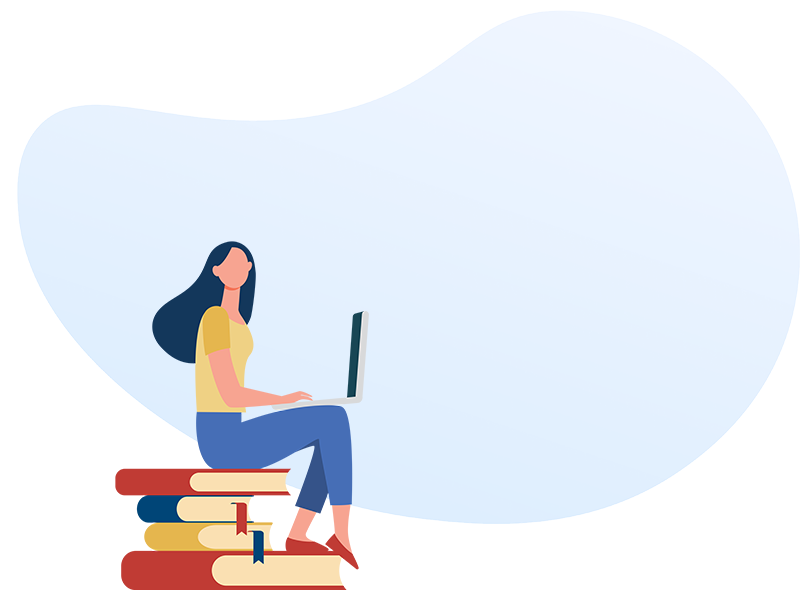
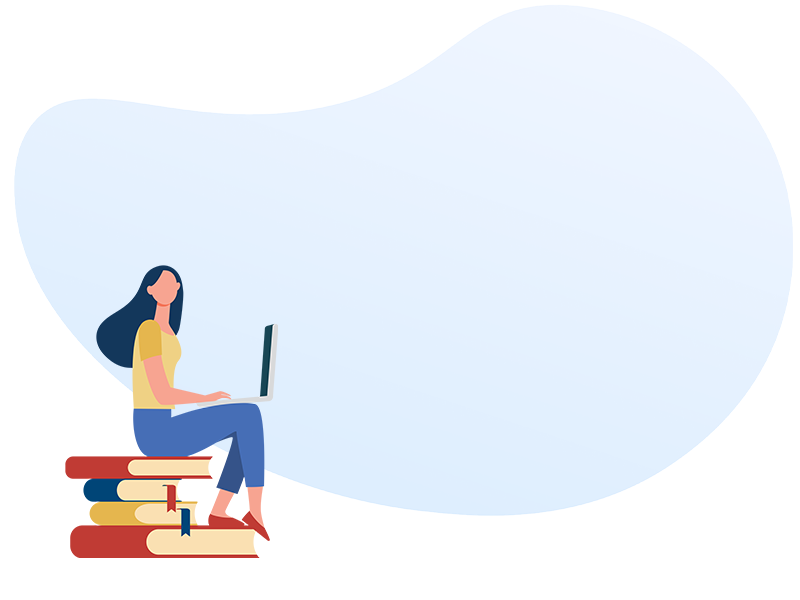
prueba

diff --git a/style.css b/style.css
@@ -96,7 +96,7 @@ body {
 
 /*home__li*/
 .activo { 
-	border-bottom: 4px solid rgba(0, 0, 0, 0.5);
+	border-bottom: 4px solid rgb(0, 68, 133);
 }
 
 /* footer */
@@ -146,7 +146,7 @@ body {
 .learn {
     height: 100%;
     display: grid; 
-    grid-template-columns: 0.5fr 0.8fr;
+    grid-template-columns: 0.4fr 1fr;
     grid-template-rows: 0.5fr 1fr;
     justify-content: center;
     align-items: center;
@@ -157,6 +157,7 @@ body {
     grid-column-start: 1;
     grid-column-end: 3;
     justify-self: center;
+    align-self: flex-end;
     position: relative;
     z-index: 20;
 }
@@ -166,6 +167,7 @@ body {
 }
 
 .learn__text {
+    width: 80%;
     grid-column-start: 2;
     grid-column-end: 3;
     grid-row-start: 2;
@@ -247,7 +249,7 @@ body {
 
 /* Primera sección */
 
-.know__main, .curses {
+.know, .blog, .curses, .material__main {
     width: 100%;
     display: flex;
     flex-direction: column;
@@ -256,18 +258,16 @@ body {
     align-items: center;
 }
 
-.know {
-    margin: 1vh 7vw;
-}
-
-
-.know__title, .curses__title, .material__title, .blog__title {
+.general__title {
+    width: 100%;
     color: #D1D1D1;
-    font-size: 4vw;
-    margin: 4vh 0 10vw 0;
+    font-size: 380%;
+    margin: 4vw 0;
+    position: relative;
+    z-index: 30;
 }
 
-.know__span, .curses__span, .material__span, .blog__span {
+.general__span {
     color: rgb(196, 26, 45);
     font-family: var(--korean-letter);
     font-weight: 600;
@@ -357,14 +357,6 @@ body {
     justify-content: center;
     align-items: center;
     height: auto;
-}
-
-.curses__title, .blog__title, .material__title  {
-    align-self: flex-start;
-    justify-self: center;
-    margin: 2vw 5vw;
-    position: relative;
-    z-index: 30;
 }
 
 .curses__info {
@@ -803,10 +795,11 @@ body {
 
     .home__li a {
         font-size: 3vw;
+        line-height: 200%;
     }
 
     .home__img {
-        width: 70px;
+        width: 10%;
         margin-left: 5vw;
         grid-column-start: 1;
         grid-column-end: 2;
@@ -823,7 +816,7 @@ body {
     }
 
     .img__button {
-        width: 32px;
+        width: 100%;
 		
     }
 
@@ -972,7 +965,7 @@ body {
     }
 
     .know__img--mobile {
-        width: 40vw;
+        width: 50vw;
         grid-column-start: 2;
         grid-column-end: 3;
         grid-row-start: 1;
@@ -985,13 +978,13 @@ body {
         grid-column-end: 3;
         grid-row-start: 2;
         grid-row-end: 2;
-        font-size: 2.3vw;
+        font-size: 3vw;
         text-align: center;
     }
 
     .know__title--mobile, .what__title--mobile, .who__title--mobile {
         align-self: center;
-        font-size: 3.5vw;
+        font-size: 4.5vw;
     }
 
 
@@ -1020,7 +1013,7 @@ body {
     .know__li--mobile {
         text-align: center;
         list-style-position: inside;
-        font-size: 2.3vw;
+        font-size: 3vw;
     }
 
     .know__ul--mobile {
@@ -1143,8 +1136,6 @@ body {
 @media (max-width: 800px) {
     
     /* US */
-
-
     .team__us--text {
         font-size: 2.4vw;
     }
@@ -1173,12 +1164,6 @@ body {
 
     /* CURSES */
 
-    .curses__title { 
-        font-size: 7vw;
-        position: relative;
-        top: -5px;
-    }
-
     .curses__content--title {
         font-size: 5vw;
     }
@@ -1202,11 +1187,6 @@ body {
         font-size: 3vw;
     }
 
-    .material__title {
-        font-size: 7vw;
-    }
-
-
 }
 
 
@@ -1214,15 +1194,9 @@ body {
 
     .info__input {
         font-size: 1em;
-        height: 50px;
     }
 
     /* CURSES */
-
-    .curses__title { 
-        position: relative;
-        top: -10px;
-    }
 
     .curses__content--title {
         font-size: 6vw;
@@ -1305,9 +1279,6 @@ body {
     }
 
     /* CURSES */
-    .curses__title {
-        top: 15px;
-    }
 }
 
 @media (max-width: 550px) {
@@ -1330,11 +1301,6 @@ body {
         grid-column-start: 1;
         font-size: 30px;
         width: 10em;
-    }
-
-    /* CURSES */
-    .curses__title {
-        font-size: 10vw;
     }
 }
 
@@ -1369,11 +1335,6 @@ body {
     }
 
     /* US */
-    .know__title, .curses__title, .material__title {
-        color: #D1D1D1;
-        margin: 4vh 0 5vh 0;
-        font-size: 4vh;
-    }
     
 
     .know__v--mobile, .what__img--mobile, .how__img--mobile {
@@ -1381,14 +1342,6 @@ body {
     }
 
     /* CURSES */
-
-    .curses__title { 
-        font-size: 10vw;
-        position: relative;
-        top: 0;
-        left: 25px;
-    }
-
     .curses__content--title {
         font-size: 6vw;
     }
@@ -1407,10 +1360,6 @@ body {
     }
 
     /* MATERIAL */ 
-
-    .material__title {
-        margin-left: 8vw;
-    }
 
     .material__download, .material__level {
         width: 20vw;

diff --git a/blog.html b/blog.html
@@ -28,13 +28,8 @@
                 <li class="home__li">
                     <a href="material.html">Material descargable</a>
                 </li>
-<<<<<<< HEAD
-                <li class="home__li actived">
+                <li class="home__li" class="activo">
                     <a href="blog.html">Blog</a>
-=======
-                <li class="home__li">
-                    <a href="#">Blog</a>
->>>>>>> 2314289bb882f2847189729a375b8d64c548158e
                 </li>
                 <li class="home__li">
                     <a id="inicio_de_sesion" href="#">Iniciar sesión</a>
@@ -48,7 +43,7 @@
 
     <main class="blog">
         <section class="blog__section">
-            <h1 class="blog__title title">blog <span class="blog__span">블로그</span></h1>
+            <h1 class="general__title title">blog <span class="general__span">블로그</span></h1>
            <div id="posteos">
             <div class="blog__items">
                 <h2 class="blog__title--two title">Recuperando</h2>

diff --git a/index.html b/index.html
@@ -44,7 +44,7 @@
     <main class="learn__main">
         <section class="learn">
             <h1 class="learn__title title">Bienvenidos a Gugó!</h1>
-            <p class="learn__text text">Lorem ipsum dolor sit amet consectetur adipisicing elit. Dicta aperiam velit ab ducimus ipsum vel in quam! Fugit, debitis quas.</p>
+            <p class="learn__text text">Cursos on-line, material didactico para estudiar por tu cuenta, blogs sobre cultura, curiosidades y mucho mas... Sumate a la comunidad y comparti con nosotros el amor por Corea, su cultura y su gente.</p>
             <img class="learn__img" src="img/ilustraciones gugo-01.png" alt="girl-computer">
         </section>
         <div class="vector">

diff --git a/material.html b/material.html
@@ -41,9 +41,9 @@
         </a>
     </header>
 
-    <main>
+    <main class="material__main">
         <section class="material">
-            <h1 class="material__title title">contenido <span class="material__span">학습</span></h1>
+            <h1 class="general__title title">contenido <span class="general__span">학습</span></h1>
             <div class="content">
                 <h2 class="content__title title">Nuestro material</h2>
                 <p class="content__text text">Si estudiás por tu cuenta, esta sección te va a gustar. Acá vas a encontrar material gratuito que podés descargar para ayudarte a estudiar, a prácticar y a organizarte con los contenidos.</p>

diff --git a/curses.html b/curses.html
@@ -43,7 +43,7 @@
 
     <main class="curses">
         <section class="curses">
-            <h1 class="curses__title title">cursos <span class="curses__span title">수업</span></h1>
+            <h1 class="general__title title">cursos <span class="general__span title">수업</span></h1>
             <div class="curses__info">
                 <h2 class="curses__content--title title">¿Cómo enseñamos?</h2>
                 <p class="curses__content--text text">Nuestros cursos están divididos en 4 niveles, de cursada anual, en los que se trabajan la lectura, la escritura, la escucha y la conversación. </p>

diff --git a/us.html b/us.html
@@ -43,7 +43,7 @@
 
     <main class="know__main">
         <section class="know">
-            <h1 class="know__title title">nosotros <span class="know__span">우리</span></h1>
+            <h1 class="general__title title">nosotros <span class="general__span">우리</span></h1>
             <article class="know__us know__first">
                 <img class="know__img know__v" src="img/ilustraciones gugo-03.png" alt="team">
                 <div class="know__content">
